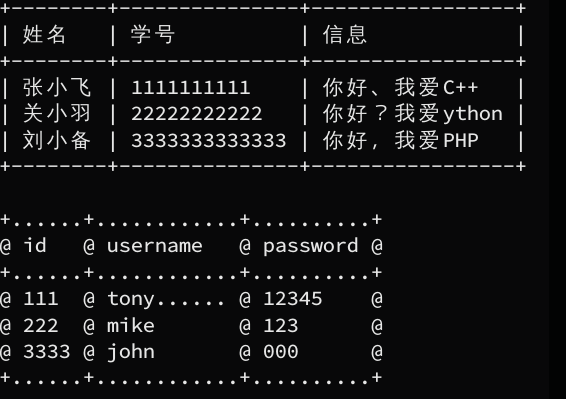
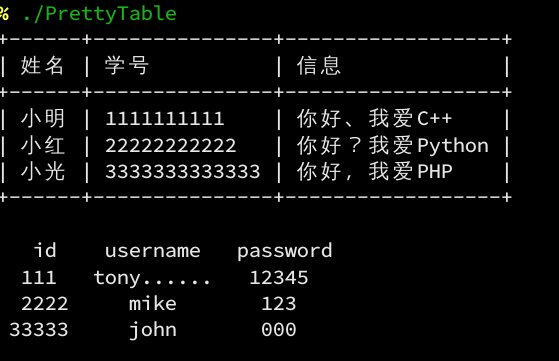
update new file

diff --git a/PrettyTable.cpp b/PrettyTable.cpp
@@ -10,15 +10,12 @@ PrettyTable::PrettyTable() {
     m_BorderStyle.V = static_cast<Sign>(Sign::PT_V);
     this->m_Rows = 0;
     this->m_Columns = 0;
+    this->is_cancelFrame= false;
     this->is_DrawTable = false;
     this->m_Header._align = Align::Left;
 }
 PrettyTable::~PrettyTable() {
-    this->m_Rows = 0;
-    this->m_Columns = 0;
-    this->m_Header._header.clear();
-    m_multiColumns.clear();
-    m_multiRows.clear();
+    this->Cleanup();
 }
 /**
  *  Set table border
@@ -46,8 +43,11 @@ PrettyTable::String PrettyTable::to_String(int _start, int _end) {
  * @param _header
  */
 void PrettyTable::AddHeader(const PrettyTable::StringArray& _header, Align _align) {
+    if(_header.empty())
+        throw Exception("Not have a _header_");
+    if(_align!=Align::Left)
+        this->m_Header._align = _align;
     this->m_Header._header = _header;
-    this->m_Header._align = _align;
     this->m_Columns = this->m_Header._header.size();
     // init resize the header columns
     this->m_multiColumns.resize(this->m_Columns);
@@ -60,6 +60,8 @@ void PrettyTable::AddHeader(const PrettyTable::StringArray& _header, Align _alig
  * @param _row
  */
 void PrettyTable::AddRow(const PrettyTable::StringArray& _row) {
+    if(_row.size()<=0)
+        return;
     m_multiRows.push_back(_row);
     m_Rows++;
     if (this->m_Columns != _row.size()) {
@@ -111,7 +113,7 @@ void PrettyTable::_draw_table(int s, int e) {
 }
 /**
  *  build header such as
- *  "+----------+------------------+----------+----------+---------------------+
+ *  +----------+------------------+----------+----------+---------------------+
  *  | xx        | xx              | xx       | xx       | xx                   |
  *  +----------+------------------+----------+----------+---------------------+
  */
@@ -119,14 +121,18 @@ void PrettyTable::_draw_header() {
     if (this->m_Columns <= 0)return;
     // draw top line
     // +----------+------------------+----------+----------+---------------------+
-    _put_char(m_BorderStyle.Corner);
-    for (int i = 0; i < this->m_Columns; ++i) {
-        _put_chars(m_BorderStyle.H, this->m_ColumnsContent_max_len[i] + PADDING_LEFT_RIGHT);
+    if(!this->is_cancelFrame){
         _put_char(m_BorderStyle.Corner);
+        for (int i = 0; i < this->m_Columns; ++i) {
+            _put_chars(m_BorderStyle.H, this->m_ColumnsContent_max_len[i] + PADDING_LEFT_RIGHT);
+            _put_char(m_BorderStyle.Corner);
+        }
+        _put_endline();
     }
-    _put_endline();
     // draw header data
-    _put_char(m_BorderStyle.V);
+    if(!this->is_cancelFrame)
+        _put_char(m_BorderStyle.V);
+
     for (int i = 0; i < this->m_Columns; ++i) {
         int _PADDING = 0;
         // Solve the Chinese characters problems
@@ -139,8 +145,9 @@ void PrettyTable::_draw_header() {
         _PADDING = this->m_ColumnsContent_max_len[i] + _get_Chinese_len(str);
 #endif
         m_innerOss << ' ';
-        padding(_PADDING, m_Header._align);
-        padding(_PADDING, m_Header._align);
+        if(!this->is_cancelFrame){
+            padding(_PADDING, m_Header._align);
+        }
         if (m_Header._align == Align::Internal) {
 #ifdef WIN32
             int s1 = (PADDING_LEFT_RIGHT / 2 + this->m_ColumnsContent_max_len[i]) / 2 + (StringCapacity(str)) / 2;
@@ -158,18 +165,21 @@ void PrettyTable::_draw_header() {
             m_innerOss << str;
         }
         m_innerOss << ' ';
-        _put_char(m_BorderStyle.V);
+        if(!this->is_cancelFrame)
+            _put_char(m_BorderStyle.V);
     }
     _put_endline();
 
     // draw bottom line
     // +----------+------------------+----------+----------+---------------------+
-    _put_char(m_BorderStyle.Corner);
-    for (int i = 0; i < this->m_Columns; ++i) {
-        _put_chars(m_BorderStyle.H, this->m_ColumnsContent_max_len[i] + PADDING_LEFT_RIGHT);
+    if(!this->is_cancelFrame){
         _put_char(m_BorderStyle.Corner);
+        for (int i = 0; i < this->m_Columns; ++i) {
+            _put_chars(m_BorderStyle.H, this->m_ColumnsContent_max_len[i] + PADDING_LEFT_RIGHT);
+            _put_char(m_BorderStyle.Corner);
+        }
+        _put_endline();
     }
-    _put_endline();
 }
 /**
  *  draw alll rows
@@ -187,7 +197,8 @@ void PrettyTable::_draw_rows(int s, int e) {
     }
     for (int j = 0; j < this->m_Rows; ++j) {
         if ((j + 1) < s || (j + 1) > e)continue;
-        _put_char(m_BorderStyle.V);
+        if(!this->is_cancelFrame)
+            _put_char(m_BorderStyle.V);
         for (int i = 0; i < this->m_Columns; ++i) {
             int _PADDING = 0;
             // Solve the Chinese characters problems
@@ -200,7 +211,8 @@ void PrettyTable::_draw_rows(int s, int e) {
             _PADDING = this->m_ColumnsContent_max_len[i] + _get_Chinese_len(str);
 #endif
             m_innerOss << ' ';
-            padding(_PADDING, m_Header._align);
+            if(!this->is_cancelFrame)
+                padding(_PADDING, m_Header._align);
             // do with the internal aligning condition
             if (m_Header._align == Align::Internal) {
 #ifdef WIN32
@@ -214,23 +226,25 @@ void PrettyTable::_draw_rows(int s, int e) {
                            << str
                            << left << setw(s2)
                            << "";
-            }
-            else {
+            }else {
                 m_innerOss << str;
             }
             m_innerOss << ' ';
-            _put_char(m_BorderStyle.V);
+            if(!this->is_cancelFrame)
+                _put_char(m_BorderStyle.V);
         }
         _put_endline();
     }
     // draw bottom line
     // +----------+------------------+----------+----------+---------------------+
-    _put_char(m_BorderStyle.Corner);
-    for (int i = 0; i < this->m_Columns; ++i) {
-        _put_chars(m_BorderStyle.H, this->m_ColumnsContent_max_len[i] + PADDING_LEFT_RIGHT);
+    if(!this->is_cancelFrame){
         _put_char(m_BorderStyle.Corner);
+        for (int i = 0; i < this->m_Columns; ++i) {
+            _put_chars(m_BorderStyle.H, this->m_ColumnsContent_max_len[i] + PADDING_LEFT_RIGHT);
+            _put_char(m_BorderStyle.Corner);
+        }
+        _put_endline();
     }
-    _put_endline();
 }
 /**
  *  get max  size() in columns stringArray
@@ -337,4 +351,22 @@ void PrettyTable::OutputFile(const string& _file_path) {
     m_FileOut.close();
 }
 
-
+/**
+ * Finally clean all data and end up...
+ */
+void PrettyTable::Cleanup() {
+    this->is_cancelFrame=false;
+    this->m_Rows = 0;
+    this->m_Columns = 0;
+    this->m_Header._header.clear();
+    for (int i = 0; i < m_multiColumns.size(); ++i)
+        this->m_multiColumns[i].clear();
+    this->m_multiColumns.clear();
+    for (int j = 0; j <m_multiRows.size() ; ++j)
+        this->m_multiRows[j].clear();
+    this->m_multiRows.clear();
+    this->m_ColumnsContent_max_len.clear();
+    this->m_innerOss.clear();
+    this->m_innerOss.ignore();
+    this->m_FileOut.clear();
+}

diff --git a/PrettyTable.h b/PrettyTable.h
@@ -1,16 +1,27 @@
 
 #ifndef PRETTYTABLE_PRETTYTABLE_H
 #define PRETTYTABLE_PRETTYTABLE_H
+
 #include <iostream>
-#include <exception>
+#include <string>
 #include <iomanip>
 #include <vector>
-#include <string>
 #include <sstream>
 #include <fstream>
+#include <exception>
 #include "Sign.h"
 
-using namespace std;
+using std::string;
+using std::exception;
+using std::vector;
+using std::stringstream;
+using std::wstring;
+using std::ostream;
+using std::ofstream;
+using std::endl;
+using std::setw;
+using std::left;
+using std::right;
 
 // Default space takes two bytes
 #define PADDING_LEFT_RIGHT 2
@@ -64,13 +75,14 @@ private:
     vector<int>m_ColumnsContent_max_len;
     bool is_DrawTable;
     ofstream m_FileOut;
+    bool is_cancelFrame;
 public:
-    friend ostream& operator<<(ostream& out, PrettyTable& pt) {
-        out << pt.to_String();
-        return out;
-    }
     PrettyTable();
     ~PrettyTable();
+    /**
+     * Cancel the border frame style
+     */
+    void CancelFrameStyle(){is_cancelFrame=true;}
     /**
      *  Set table border
      * @param _Corner suck as '+'
@@ -118,6 +130,13 @@ public:
      * @param _file_path
      */
     void OutputFile(const string& _file_path = "output_table.txt");
+
+    /**
+     * Clean all data
+     */
+    void Cleanup();
+
+    friend ostream& operator<<(ostream& out, PrettyTable& pt) {out << pt.to_String();return out;}
 
 private:
     /**

diff --git a/test.cpp b/test.cpp
@@ -4,17 +4,16 @@ using namespace std;
 
 int main() {
 	vector<string>header = { "姓名","学号","信息" };
-	vector<string>row1 = { "张小飞","1111111111","你好、我爱C++" };
-	vector<string>row2 = { "关小羽","22222222222","你好？我爱Python" };
-	vector<string>row3 = { "刘小备","3333333333333","你好，我爱PHP" };
+	vector<string>row1 = { "小明","1111111111","你好、我爱C++" };
+	vector<string>row2 = { "小红","22222222222","你好？我爱Python" };
+	vector<string>row3 = { "小光","3333333333333","你好，我爱PHP" };
 	vector<vector<string>>vecs{ row1,row2,row3 };
 	PrettyTable pt;
 	try {
 		pt.AddHeader(header);
 		pt.AddRows(vecs);
-        pt.SetAlign(PrettyTable::Align::Internal);
-        pt.DrawTable();
-		cout << pt.to_String() << endl;
+        pt.SetAlign(PrettyTable::Align::Left);
+		cout << pt << endl;
 	}
 	catch (Exception & e) {
 		cout << e.what() << endl;
@@ -24,9 +23,10 @@ int main() {
 	pt2.AddHeader({ "id","username","password" });
 	pt2.AddRows({
 		{"111","tony......","12345"},
-		{"222","mike","123"},
-		{"3333","john","000"}
+		{"2222","mike","123"},
+		{"33333","john","000"}
 		});
+    pt2.CancelFrameStyle();
     pt2.SetAlign(PrettyTable::Align::Internal);
 	pt2.SetBorderStyle(Sign::PT_PLUS, Sign::PT_DOT, Sign::PT_SIG_1);
 	pt2.DrawTable();

diff --git a/myTermColor.h b/myTermColor.h
@@ -4,7 +4,7 @@
 #include <string>
 #include "Sign.h"
 
-using namespace std;
+using std::string;
 
 typedef Color::ForegroundColor CFgColor;
 typedef Color::BackgroundColor CBgColor;
@@ -20,7 +20,6 @@ public:
 	TermColor(CFgColor foregroundColor = CFgColor::None,
 	          CCtlCode controlCode = CCtlCode::None,
 	          CBgColor backgroundColor = CBgColor::None);
-
 	/**
 	 * return the prepared string
 	 */

diff --git a/TerminalColor.h b/TerminalColor.h
@@ -74,6 +74,6 @@ private:
 	WORD m_OldConsoleAttribute;
 	WORD m_NewConsoleAttribute;
 };
-#endif 
+#endif
 
 #endif

diff --git a/README.md b/README.md
@@ -10,17 +10,16 @@ using namespace std;
 
 int main() {
 	vector<string>header = { "姓名","学号","信息" };
-	vector<string>row1 = { "张小飞","1111111111","你好、我爱C++" };
-	vector<string>row2 = { "关小羽","22222222222","你好？我爱Python" };
-	vector<string>row3 = { "刘小备","3333333333333","你好，我爱PHP" };
+	vector<string>row1 = { "小明","1111111111","你好、我爱C++" };
+	vector<string>row2 = { "小红","22222222222","你好？我爱Python" };
+	vector<string>row3 = { "小光","3333333333333","你好，我爱PHP" };
 	vector<vector<string>>vecs{ row1,row2,row3 };
 	PrettyTable pt;
 	try {
 		pt.AddHeader(header);
 		pt.AddRows(vecs);
-        pt.SetAlign(PrettyTable::Align::Internal);
-        pt.DrawTable();
-		cout << pt.to_String() << endl;
+        pt.SetAlign(PrettyTable::Align::Left);
+		cout << pt << endl;
 	}
 	catch (Exception & e) {
 		cout << e.what() << endl;
@@ -30,9 +29,10 @@ int main() {
 	pt2.AddHeader({ "id","username","password" });
 	pt2.AddRows({
 		{"111","tony......","12345"},
-		{"222","mike","123"},
-		{"3333","john","000"}
+		{"2222","mike","123"},
+		{"33333","john","000"}
 		});
+    pt2.CancelFrameStyle();
     pt2.SetAlign(PrettyTable::Align::Internal);
 	pt2.SetBorderStyle(Sign::PT_PLUS, Sign::PT_DOT, Sign::PT_SIG_1);
 	pt2.DrawTable();
@@ -40,31 +40,27 @@ int main() {
 
 	return 0;
 } 
-
 ```
 
 ```
-g++ test.cpp PrettyTable.cpp -o test
-./test
+mkdir build&&cd build
+cmake .. && make && ./PrettyTable
 ```
 Output:
 ```
-+--------+---------------+------------------+
-|  姓名  |      学号     |       信息       |
-+--------+---------------+------------------+
-| 张小飞 |   1111111111  |  你好、我爱C++   |
-| 关小羽 |  22222222222  | 你好？我爱Python |
-| 刘小备 | 3333333333333 |  你好，我爱PHP   |
-+--------+---------------+------------------+
++------+---------------+------------------+
+| 姓名 | 学号          | 信息             |
++------+---------------+------------------+
+| 小明 | 1111111111    | 你好、我爱C++    |
+| 小红 | 22222222222   | 你好？我爱Python |
+| 小光 | 3333333333333 | 你好，我爱PHP    |
++------+---------------+------------------+
 
-+......+............+..........+
-@  id  @  username  @ password @
-+......+............+..........+
-@ 111  @ tony...... @  12345   @
-@ 222  @    mike    @   123    @
-@ 3333 @    john    @   000    @
-+......+............+..........+
-
+   id    username   password
+  111   tony......   12345
+  2222     mike       123
+ 33333     john       000
+ 
 ```
 
 In Windows:
